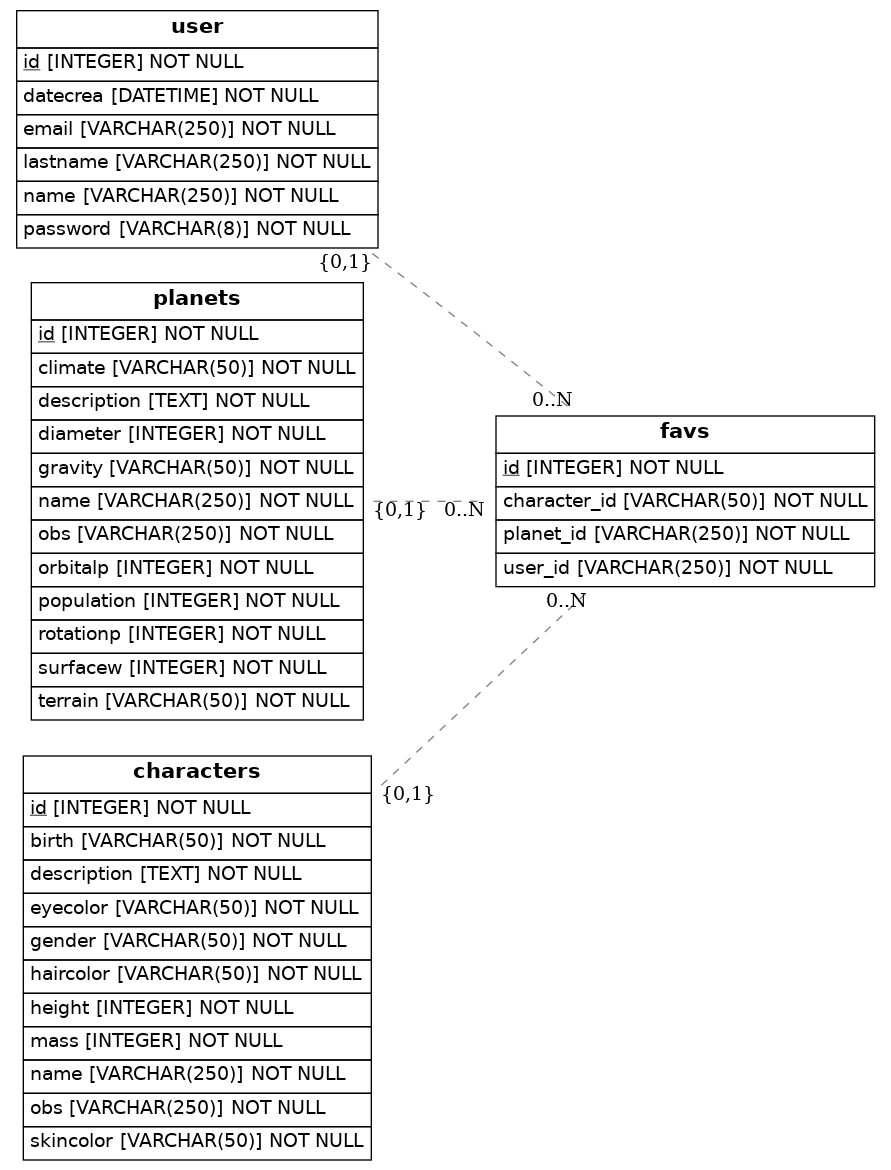
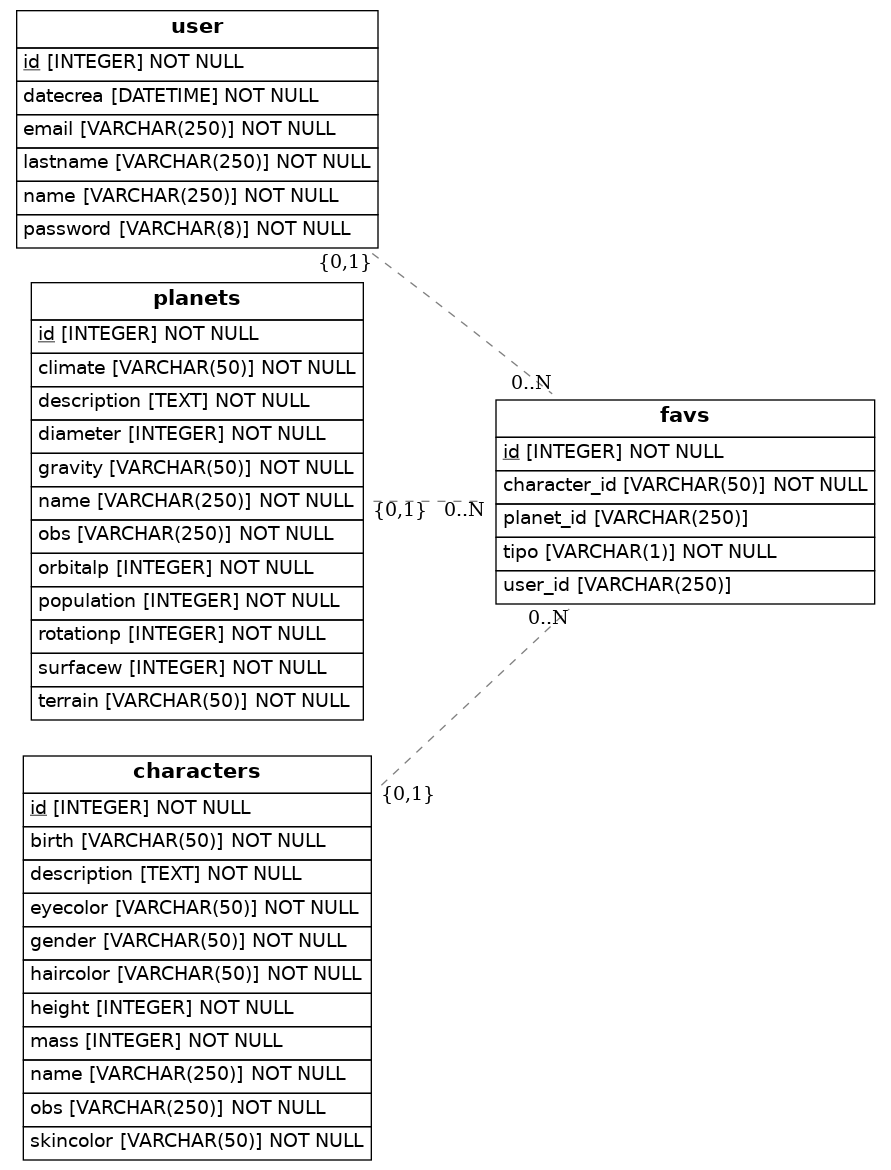
V Final

Changed region(s): [[0.5455, 0.3077, 0.9697, 0.5538]]

diff --git a/src/models.py b/src/models.py
@@ -39,9 +39,9 @@ class User(Base):
      datecrea = Column(DateTime(timezone=True), nullable=False)
      email = Column(String(250), nullable=False)
      password = Column(String(8), nullable=False)
-     characters = relationship("Role", secondary=roles_users, backref="users")
+     favs = relationship("Fav",backref="user")
 
-class Planets(Base):
+class Planet(Base):
      __tablename__ = 'planets'
      # Here we define columns for the table person
      # Notice that each column is also a normal Python instance attribute.
@@ -58,7 +58,7 @@ class Planets(Base):
      gravity = Column(String(50), nullable=False)
      description = Column(Text, nullable=False)
 
-class Characters(Base):
+class Character(Base):
      __tablename__ = 'characters'
      # Here we define columns for the table person
      # Notice that each column is also a normal Python instance attribute.
@@ -74,14 +74,17 @@ class Characters(Base):
      skincolor = Column(String(50), nullable=False)
      description = Column(Text, nullable=False)
 
-class Favs(Base):
+class Fav(Base):
      __tablename__ = 'favs'
      # Here we define columns for the table person
      # Notice that each column is also a normal Python instance attribute.
      id = Column(Integer, primary_key=True)
-     user_id = Column(String(250), ForeignKey("user.id"), nullable=False)
-     planet_id = Column(String(250), ForeignKey("planets.id"), nullable=False)
+     tipo = Column(String(1), nullable=False)
+     user_id = Column(String(250), ForeignKey("user.id"), nullable=True)
+     planet_id = Column(String(250), ForeignKey("planets.id"), nullable=True)
      character_id = Column(String(50), ForeignKey("characters.id"), nullable=False)
+     planet = relationship("Planet",backref="favs")
+     character = relationship("Character",backref="favs")
 
 ## Draw from SQLAlchemy base
 render_er(Base, 'diagram.png')
